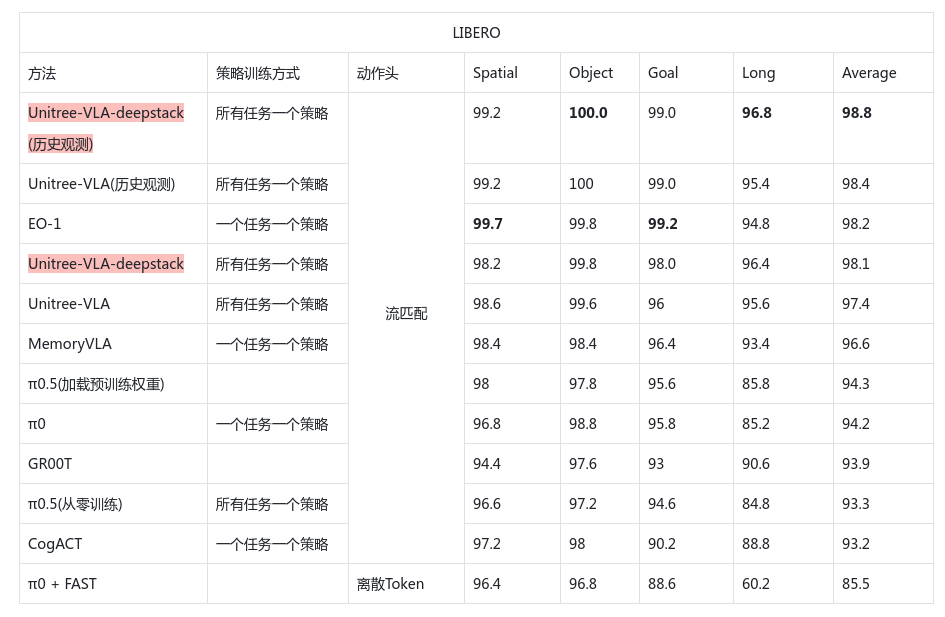
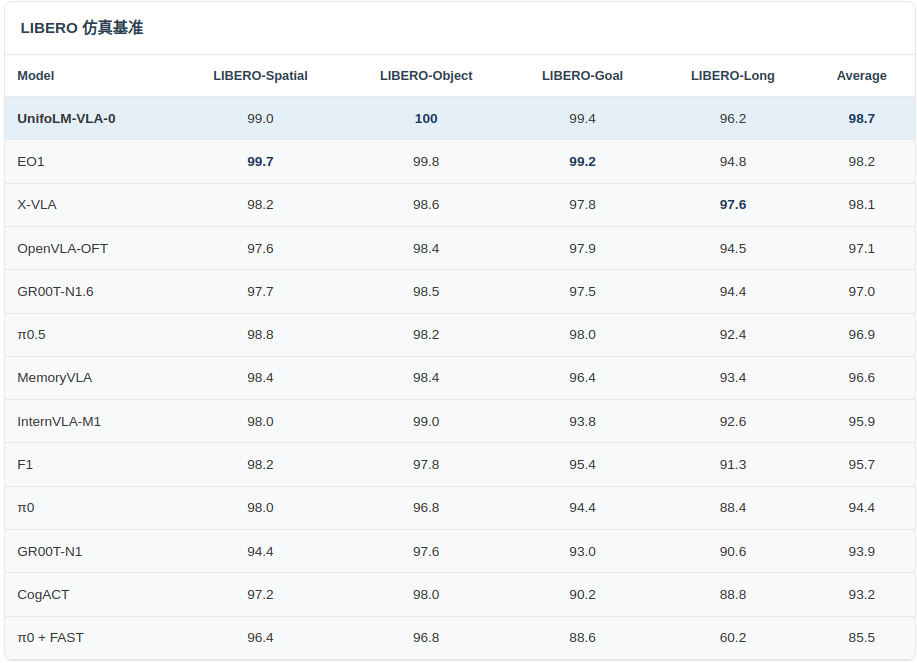
改了个逗号

diff --git a/index.html b/index.html
@@ -905,7 +905,7 @@
                     <div class="prompt-label">Prompt</div>
                     <div class="prompt-text">
                       <span class="lang en">The empty space between the pencil close to right pencil in the image</span>
-                      <span class="lang zh">图像中靠近右侧铅笔的铅笔之间的空隙</span>
+                      <span class="lang zh">图像中靠近右侧铅笔的铅笔之间的空隙。</span>
                     </div>
                   </div>
                   <div class="images-grid single">
@@ -919,7 +919,7 @@
                     <div class="prompt-label">Prompt</div>
                     <div class="prompt-text">
                       <span class="lang en">The empty space between the pencil close to left pencil in the image</span>
-                      <span class="lang zh">图像中靠近左侧铅笔的铅笔之间的空隙</span>
+                      <span class="lang zh">图像中靠近左侧铅笔的铅笔之间的空隙。</span>
                     </div>
                   </div>
                   <div class="images-grid single">
